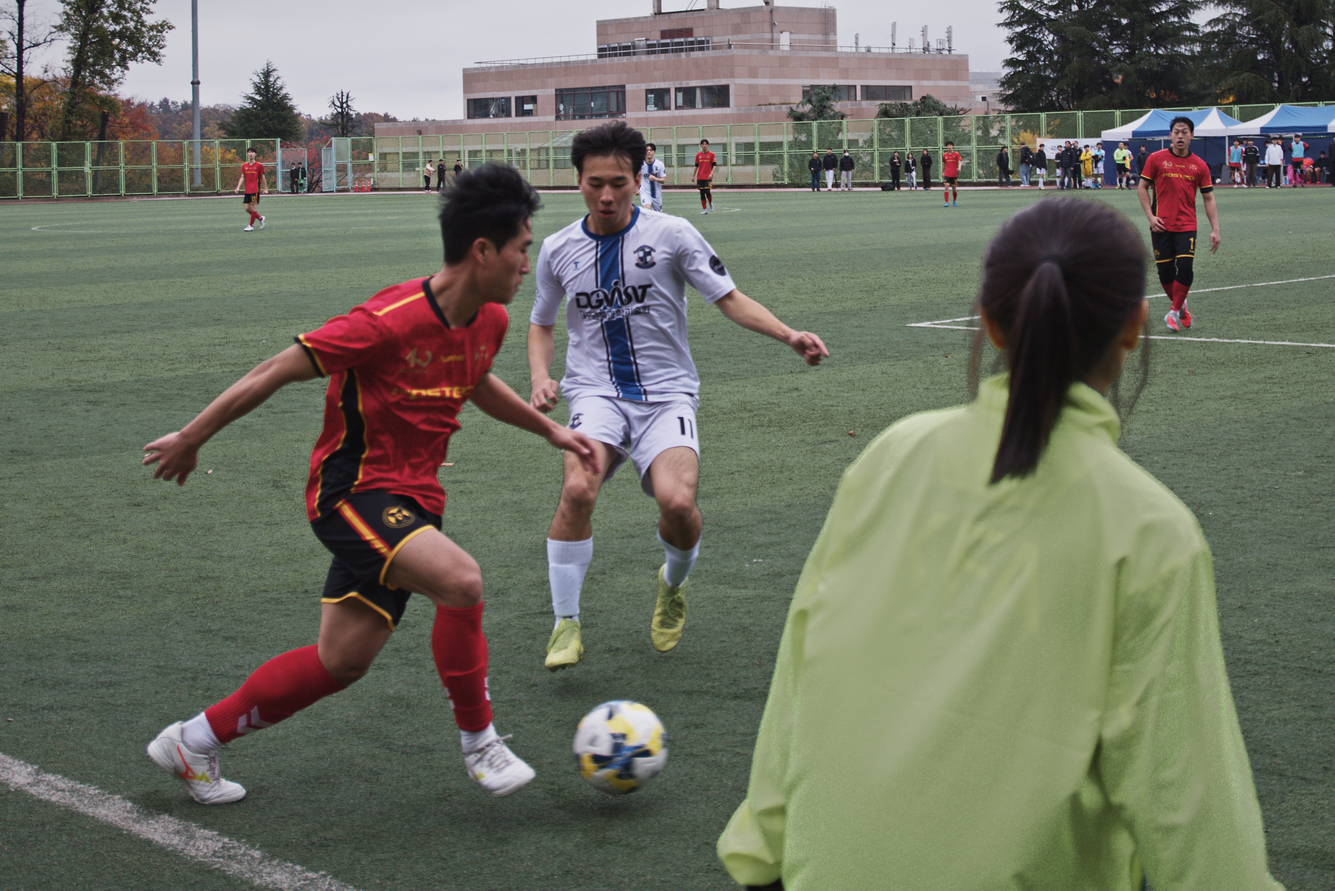
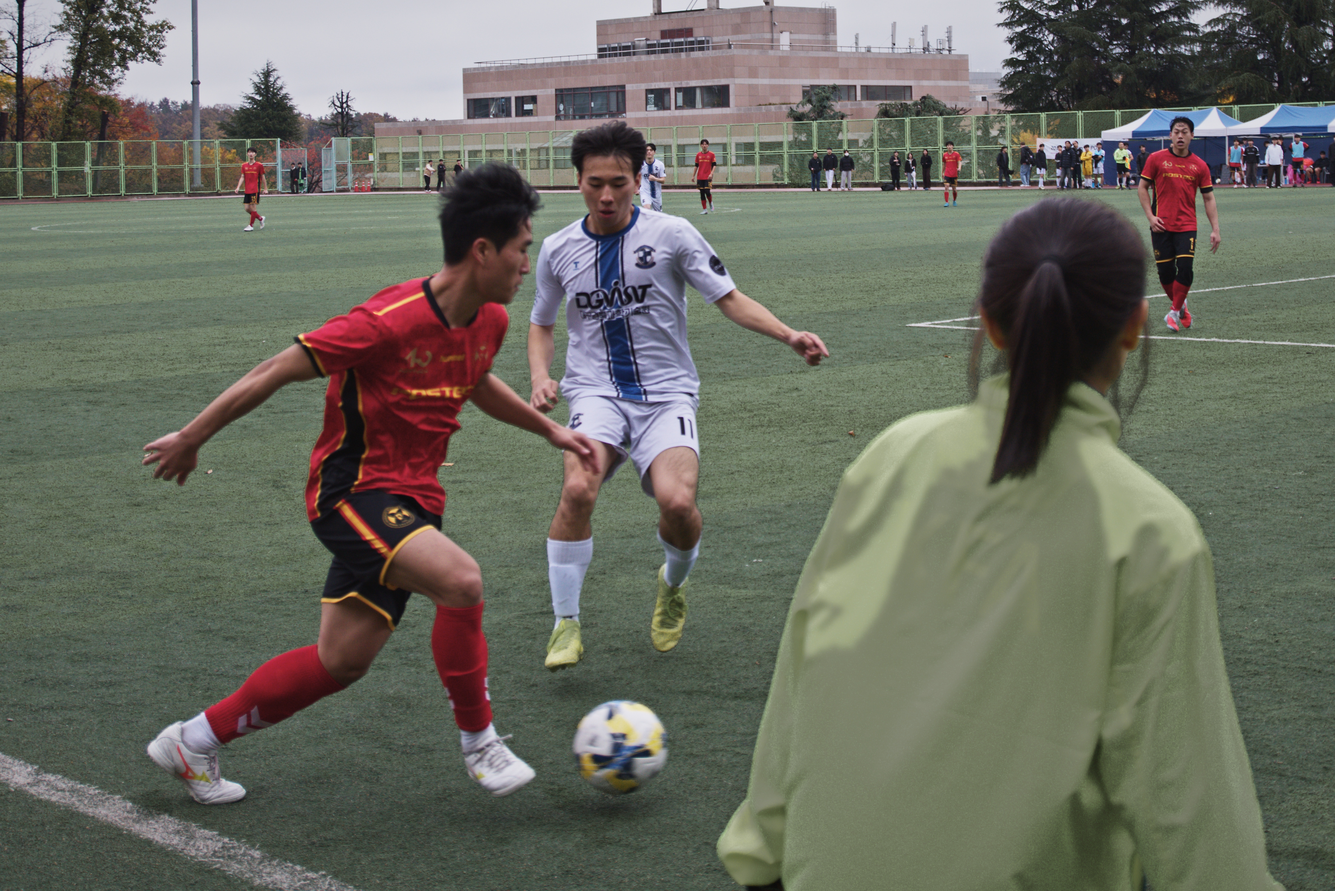
38번 축구 국소 톤 보정(원칙 예외, 기자 결정): 재킷 마스크 밝기 0.80·채도 0.75, 공개 문서·지면 고지문에 예외 명시
Claude-Session: https://claude.ai/code/session_01UnSELmeWEiuKN8oWRTyuLb

Changed region(s): [[0.5269, 0.4059, 0.9608, 1.0]]

diff --git a/pipeline/local_adjust.py b/pipeline/local_adjust.py
@@ -1,0 +1,31 @@
+"""현상본에 국소 톤 보정(닷지·번 범위)을 적용한다. 원칙 예외: 480호 4면 38번(PT2_0246)만, 기자 결정(2026-11-26).
+마스크 = 손으로 지정한 영역(정규화 다각형) ∩ 색상 대역(형광 연두) → 가우시안 페더.
+밝기·채도만 낮춘다. 흐림(초점 조절), 복제, 제거는 하지 않는다.
+usage: python3 -I local_adjust.py <in.jpg> <out.jpg> <light_mul> <sat_mul> [mask_png]
+"""
+import sys, numpy as np, cv2
+from PIL import Image
+POLY = [(0.52, 0.40), (0.99, 0.40), (0.99, 1.00), (0.52, 1.00)]   # 심판(오른쪽 아래) 영역, 정규화 좌표
+HUE = (55, 100)      # 형광 연두(°)
+src, dst, lm, sm = sys.argv[1], sys.argv[2], float(sys.argv[3]), float(sys.argv[4])
+im = Image.open(src); icc = im.info.get("icc_profile")
+rgb = np.asarray(im.convert("RGB")).astype(np.float32) / 255
+h, w = rgb.shape[:2]
+hsv = cv2.cvtColor(rgb, cv2.COLOR_RGB2HSV)
+region = np.zeros((h, w), np.uint8)
+cv2.fillPoly(region, [np.array([(int(x * w), int(y * h)) for x, y in POLY], np.int32)], 1)
+hue = ((hsv[..., 0] >= HUE[0]) & (hsv[..., 0] <= HUE[1]) & (hsv[..., 1] > 0.25) & (hsv[..., 2] > 0.25)).astype(np.uint8)
+m = (region & hue).astype(np.uint8)
+m = cv2.morphologyEx(m, cv2.MORPH_CLOSE, np.ones((15, 15), np.uint8))
+n, lab, st, _ = cv2.connectedComponentsWithStats(m, 8)                          # 가장 큰 덩어리(재킷)만
+m = (lab == 1 + int(np.argmax(st[1:, cv2.CC_STAT_AREA]))).astype(np.uint8)
+ff = m.copy(); cv2.floodFill(ff, np.zeros((h + 2, w + 2), np.uint8), (0, 0), 1)   # 바깥 채우기 → 구멍 = 미채움
+m = m | (1 - ff)                                                                # 주름 그늘 구멍 메움
+m = m & (hsv[..., 2] > 0.20).astype(np.uint8)                                   # 머리카락 등 아주 어두운 부분 제외
+m = cv2.GaussianBlur(m.astype(np.float32), (0, 0), max(h, w) / 400)            # 페더
+hsv[..., 2] *= 1 - (1 - lm) * m
+hsv[..., 1] *= 1 - (1 - sm) * m
+out = cv2.cvtColor(hsv, cv2.COLOR_HSV2RGB)
+Image.fromarray((np.clip(out, 0, 1) * 255 + 0.5).astype(np.uint8)).save(dst, quality=95, dpi=(300, 300), icc_profile=icc, subsampling=0)
+if len(sys.argv) > 5: Image.fromarray((m * 255).astype(np.uint8)).save(sys.argv[5])
+print(dst, "mask coverage", round(float(m.mean()) * 100, 1), "%")

diff --git a/docs/disclosure_pipeline.md b/docs/disclosure_pipeline.md
@@ -9,7 +9,7 @@
 
 ## 0. 지면 고지문(안)
 
-> 이 기사의 사진은 본지 기자가 촬영했다. 촬영본 1,186장의 1차 선별과 보정은 AI 에이전트(Anthropic Claude)가 기자의 지시를 받아 수행했다. 사용한 도구는 공개 소스 소프트웨어와 이미지 분류 모델(CLIP)이고, 보정 범위는 밝기·색·대비·노이즈 제거·자르기다. 생성형 AI로 화면을 만들거나 지우거나 합성하지 않았다. 최종 게재 사진은 편집국이 확인했다. 전체 과정은 github.com/ahooncho/stadium-2026-photo-edit 에 공개한다.
+> 이 기사의 사진은 본지 기자가 촬영했다. 촬영본 1,186장의 1차 선별과 보정은 AI 에이전트(Anthropic Claude)가 기자의 지시를 받아 수행했다. 사용한 도구는 공개 소스 소프트웨어와 이미지 분류 모델(CLIP)이고, 보정 범위는 밝기·색·대비·노이즈 제거·자르기다. 축구 사진 한 장에서만 전경 인물의 형광 재킷 밝기와 채도를 부분적으로 낮췄다. 생성형 AI로 화면을 만들거나 지우거나 합성하지 않았다. 최종 게재 사진은 편집국이 확인했다. 전체 과정은 github.com/ahooncho/stadium-2026-photo-edit 에 공개한다.
 
 공개 범위(저장소 공개 여부)와 '편집국 확인' 문구는 편집국이 실제 확인을 마친 뒤 확정한다.
 
@@ -135,7 +135,7 @@ Claude가 위 밀착 시트 13장(약 254컷)을 보고 보도 가치, 순간성
 
 ## 6. 보정(현상) 파이프라인 (`pipeline/develop.py`)
 
-입력은 NEF 원본 50장이고, **최종 채택 버전은 v3**다(크롭 수정 10컷 반영). 모든 처리는 **이미지 전체에 같은 수식을 적용하는 전역 연산**이다. 위치를 지정한 국소 보정(브러시·마스크로 특정 사물만 손대기)은 없다. 예외는 노이즈 제거와 샤프닝인데, 둘 다 화소 값에 따라 자동으로 세기가 달라질 뿐 위치를 지정하지 않는다.
+입력은 NEF 원본 50장이고, **최종 채택 버전은 v3**다(크롭 수정 10컷 반영). 모든 처리는 **이미지 전체에 같은 수식을 적용하는 전역 연산**이다. 위치를 지정한 국소 보정(브러시·마스크로 특정 사물만 손대기)은 480호 4면 축구 사진(PT2_0246) 한 장의 예외(6.2절)를 빼고는 없다. 예외는 노이즈 제거와 샤프닝인데, 둘 다 화소 값에 따라 자동으로 세기가 달라질 뿐 위치를 지정하지 않는다.
 
 | 순서 | 처리 | 방법·수치 |
 |---|---|---|
@@ -168,6 +168,7 @@ Claude가 위 밀착 시트 13장(약 254컷)을 보고 보도 가치, 순간성
 ## 7. 하지 않은 것
 - 생성형 AI로 화소를 만들거나 채우거나 확장하지 않았다.
 - 사람이나 사물을 지우거나 옮기거나 합성하지 않았다.
+- 국소 톤 보정은 PT2_0246 한 장의 전경 형광 재킷에만 했다(6.2절). 흐림·초점 변경·복제·제거는 하지 않았다.
 - 특정 인물의 얼굴이나 피부만 골라 보정하지 않았다. 피부 보호는 색상 대역과 톤 범위 전체에 대한 전역 조정이다.
 - 인물을 지정하는 브러시·마스크 보정을 하지 않았다(시도한 v4는 폐기).
 - 수평 보정을 하지 않았다.
@@ -214,3 +215,10 @@ CLIP 추론은 CPU에서 결정적이지만, 라이브러리 버전이 다르면
 ## 11. 저장소에 넣지 않은 것
 - NEF 원본(50장, 약 1.2GB)과 카메라 원본 JPG 사본(69장, 약 0.8GB)은 넣지 않았다. 원본은 Drive 폴더 「2026Stadium사진」에 그대로 있고, 파일 ID는 `work/01_inventory/`에 있다.
 - 원본 앞 96KB 바이트(EXIF 헤더)도 넣지 않았다. 파싱 결과는 `exif_all.json`에 있다.
+
+## 6.2 480호 4면 리뷰 반영과 국소 보정 예외 (2026-11-26)
+- **21번 LoL(PT1_0253):** 색이 다른 사진과 동떨어지고(중간톤 L* 23.9, a* 9.4, b* 18.4) ISO 11400 최강 휘도 노이즈 제거로 질감이 뭉개졌다는 리뷰를 받았다. 전역 보정 룩 arena_n6(부분 WB 0.55, 중간톤 0.35, 색 노이즈 제거 강·휘도 노이즈 제거 약)으로 다시 현상했다. 결과 L* 41.2, a* 1.9, b* 9.6.
+- **38번 축구(PT2_0246):** 오른쪽 아래 심판의 형광 재킷이 너무 눈에 띈다는 리뷰를 받았다.
+  - 1단계(전역): 형광 연두 대역(75°±11°) 채도 0.70·명도 0.72(rainpitch_j3). 같은 색의 축구화도 함께 바뀐다.
+  - 2단계(국소, 원칙 예외, 기자 결정): `pipeline/local_adjust.py`. 손으로 지정한 오른쪽 아래 영역 안에서 형광 연두 색상인 가장 큰 덩어리(재킷)만 마스크로 잡고, 주름 그늘 구멍은 메우고, 아주 어두운 부분(머리카락)은 뺀 뒤 페더(σ=긴 변/400)했다. 마스크 안 밝기 0.80배, 채도 0.75배. 면적 15.3%. 마스크는 `work/18_review_fix/local/mask.png`.
+  - 하지 않은 것: 흐림(초점 조절)은 렌즈가 기록하지 않은 광학 정보를 만드는 조작이라 기자와 합의해 쓰지 않았다. 재킷의 색을 다른 색으로 바꾸거나 인물을 지우지 않았다. 더 센 값은 재킷이 실제와 다른 탁한 올리브색으로 보여 쓰지 않았다.

diff --git a/docs/layout_480_p4.md b/docs/layout_480_p4.md
@@ -37,3 +37,5 @@ Figma: https://www.figma.com/design/zH4QLvTDwvimtvfw8UqRYW (프레임 「480호 
   - 더 센 값(j4: 0.62/0.62)은 재킷이 탁한 올리브색으로 보여 실제 색과 달라지므로 쓰지 않았다
   - 한계: 심판은 화면의 약 4분의 1을 차지하는 전경 인물이라 보정으로는 '덜 튀게'까지만 된다. 근본 해결은 재프레이밍
 - 파이프라인: `develop.py`에 룩별 노이즈 제거 세기(`nr`)와 HSL 대역 명도 배율(5번째 값)을 추가. 기존 룩의 결과는 변하지 않음(승인본과 화소 차 0 확인)
+
+- **국소 보정(원칙 예외, 2026-11-26):** 38번은 `out/final8/`에 `pipeline/local_adjust.py`(재킷 마스크 안 밝기 0.80·채도 0.75)를 추가 적용했다. `out/PT2_0246.jpg`는 전역 보정본이다. 근거와 범위는 `docs/disclosure_pipeline.md` 6.2절.
